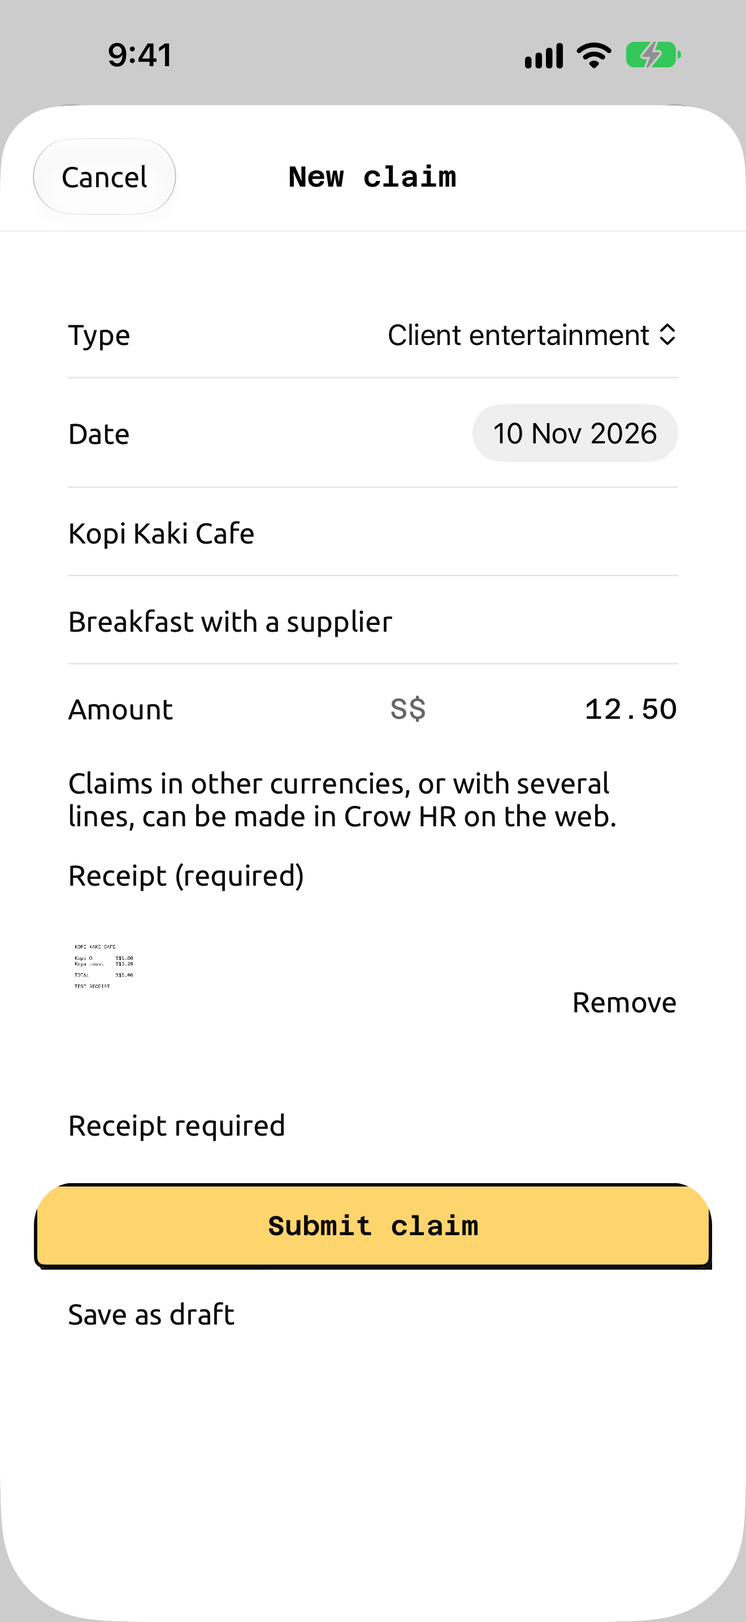
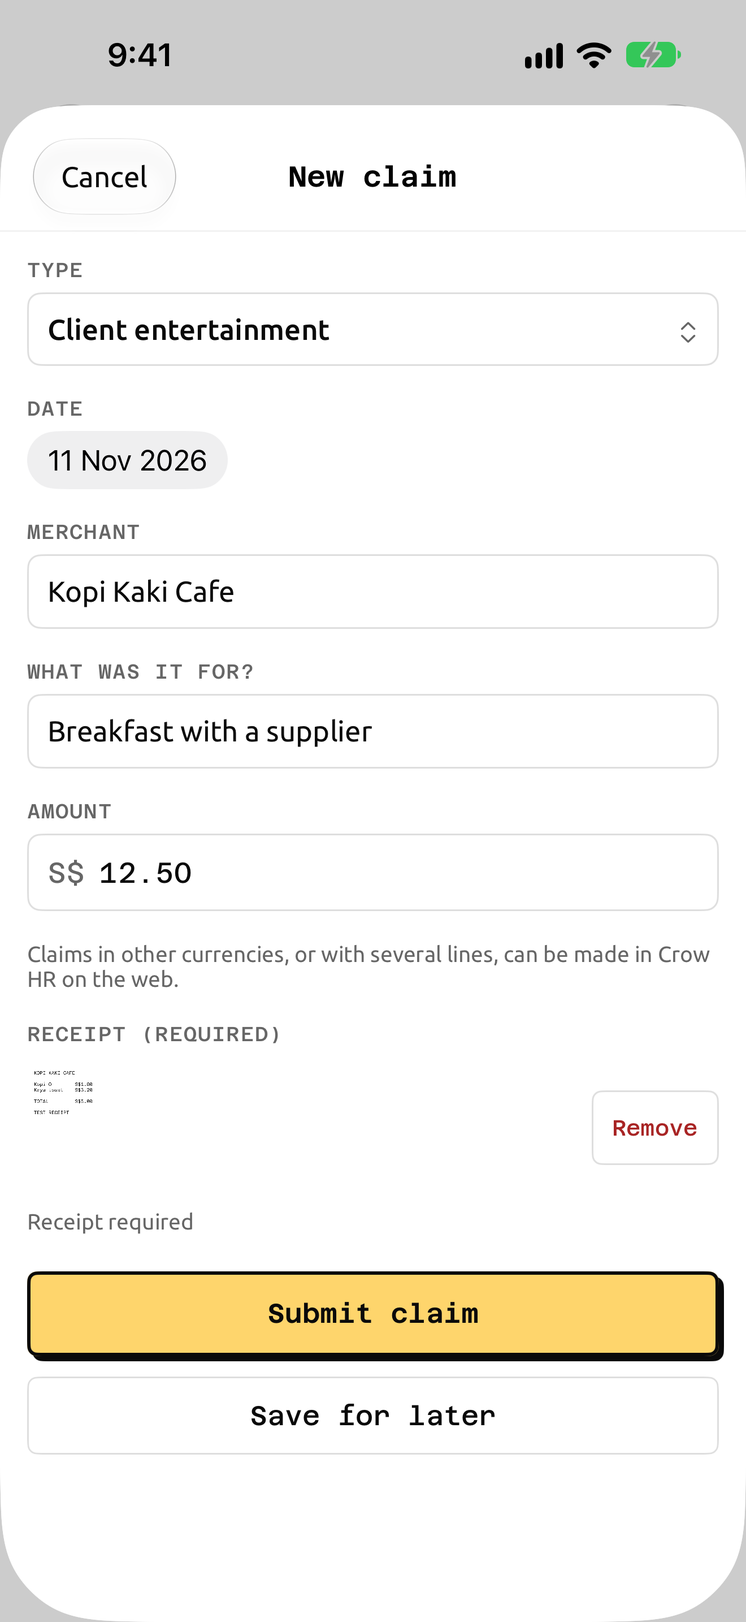
iOS build 5 (iPhone and iPad) and store status docs (#9)
* docs: store status after the Play API run, iPad support, allow-list fix

* chore(ios): recapture the 6.9-inch store screenshots after the accessibility rebuild

* chore(ios): build 5 (1.0.0, iPhone and iPad) uploaded for the App Store

Approval record, upload ledger and IPA receipt for build 5, which replaces
iPhone-only build 4 on version 1.0.0. README documents ios-store-review.py.

---------

diff --git a/openspec/changes/add-mobile-apps/tasks.md b/openspec/changes/add-mobile-apps/tasks.md
@@ -24,11 +24,11 @@ All tasks are milestone M4. Prerequisites: `add-api-platform` complete; attendan
 - [x] 3.4 apps/ios: write `PunchQueueTests` (same cases as 2.4) then implement — every case in `punch-queue-cases.json`, run through the real `APIPunchSender`
 - [x] 3.5 apps/ios: write XCUITest `EssJourneyUITests` against the seeded server over SSH reverse tunnel with network allow-list assertion, then implement the screens — `scripts/ios-ui-test.sh` (e2e seed + `scripts/ios-ui-seed.ts` payslip, tunnel bound to the Mac's loopback). The tests sign in through the real ASWebAuthenticationSession and cover: clock in; an offline punch queued then sent; leave apply; a claim with a stubbed camera receipt; a payslip and its PDF; reject with a required comment, then approve; sign-out. The allow-list is asserted by the in-app transport recorder and by an `lsof` sampler of the app process (every socket went to 127.0.0.1:3190). Notifications are only shown, not exercised as background delivery
 - [x] 3.6 apps/ios: write `BackgroundRefreshTests` (BGAppRefreshTask scheduling, content-free local notification) then implement — shared cursor cases from `background-refresh-cases.json`; the OS-run task itself is not triggered in tests
-- [ ] 3.7 apps/ios: QA with Dynamic Type XXXL, dark mode, VoiceOver labels — verified by simulator screenshots from xcresult (not mock-ups) — STILL OPEN only for the manual VoiceOver and Dynamic Type pass on a real device (Daniel's). Done: Xcode's accessibility audit (descriptions, clipped text, Dynamic Type) is clean on every screen of `QAScreenshotsUITests`: an employee in light XXXL, dark and dark XXXL from connecting to the server through Settings (connect, organisation ID, confirm, sign in, Today, Leave, New leave, Payslips, a payslip, Inbox, More, Claims, New claim, the claim-type list at XXXL, My schedule, My profile, Settings, Font licences; the first tour applies for leave so the others audit a pending request with its Withdraw button) and a manager in light XXXL (approvals, the decision sheet, notifications), 61 screens per run. A tour now visits every screen and fails with all findings; only Dynamic Type on system navigation-bar buttons and on text under the floating tab bar is excused, and logged. Three consecutive runs on 11 Nov 2026 had 0 findings on all 61 audited screens each (18 excused navigation-bar buttons per run). Screenshots were extracted from the xcresults and inspected (`artifacts/ios/qa-*.png`): no clipped text, dark mode readable, and one mid-word break left: "Schedul/e" beside "Next shifts" on Today at XXXL, under the tab bar (`MainTabView.swift`, left for the iPad work; `docs/limitations.md`). How (11 Nov 2026): every `List`/`Form` screen (Leave, New leave, Inbox approvals and notifications, Payslips, More, Claims, New claim, My schedule, My profile, Settings, Font licences, the choice list) is now a `ScrollView` built from `Design/Rows.swift`; the leave swipe actions became visible Withdraw / Cancel leave buttons that ask first, and the saved-connection swipe a Remove button; amounts read through the row's VoiceOver label (a `Text` whose label differs from its text is reported "may be clipped"); fields wrap (`axis: .vertical`, Return moves on); Azeret Mono's f-ligatures are reported as clipped, so "Save as draft" became "Save for later" and "Use a different server" became "Use another server". Real fixes found by the wider audit: the leave sheet's title was cut off ("New leave" now), "Notifications" and "Client entertainment" broke mid-word at XXXL (navigation rows also drop their chevron at accessibility sizes), the claim-type list closed when the text size changed, the brand chip's "HR" became "…", the confirm sheet no longer opens at half height. `A11yAuditLabUITests` (DEBUG-only lab, not in Release builds) keeps the 10 Nov evidence (`List` and `Form` cells flagged, a `ScrollView` clean) and fails if the `ScrollView` built from `Rows.swift` gets a finding. History: on 10 Nov 2026 three runs failed every tour on text in `List`/`Form` rows (details in `docs/limitations.md` history and git); earlier fixes: clipped text and mid-word breaks, side-by-side rows stack at accessibility sizes, tab titles render, the PhotosPicker became a plain button
+- [ ] 3.7 apps/ios: QA with Dynamic Type XXXL, dark mode, VoiceOver labels — verified by simulator screenshots from xcresult (not mock-ups) — STILL OPEN only for the manual VoiceOver and Dynamic Type pass on a real device (Daniel's). Done: Xcode's accessibility audit (descriptions, clipped text, Dynamic Type) is clean on every screen of `QAScreenshotsUITests`: an employee in light XXXL, dark and dark XXXL from connecting to the server through Settings (connect, organisation ID, confirm, sign in, Today, Leave, New leave, Payslips, a payslip, Inbox, More, Claims, New claim, the claim-type list at XXXL, My schedule, My profile, Settings, Font licences; the first tour applies for leave so the others audit a pending request with its Withdraw button) and a manager in light XXXL (approvals, the decision sheet, notifications), 61 screens per run. A tour now visits every screen and fails with all findings; only Dynamic Type on system navigation-bar buttons and on text under the floating tab bar is excused, and logged. Three consecutive runs on 11 Nov 2026 had 0 findings on all 61 audited screens each (18 excused navigation-bar buttons per run). Screenshots were extracted from the xcresults and inspected (`artifacts/ios/qa-*.png`): no clipped text, dark mode readable; the one mid-word break left, "Schedul/e" beside "Next shifts" on Today at XXXL, under the tab bar, was fixed with the iPad work (the header stacks at accessibility sizes). How (11 Nov 2026): every `List`/`Form` screen (Leave, New leave, Inbox approvals and notifications, Payslips, More, Claims, New claim, My schedule, My profile, Settings, Font licences, the choice list) is now a `ScrollView` built from `Design/Rows.swift`; the leave swipe actions became visible Withdraw / Cancel leave buttons that ask first, and the saved-connection swipe a Remove button; amounts read through the row's VoiceOver label (a `Text` whose label differs from its text is reported "may be clipped"); fields wrap (`axis: .vertical`, Return moves on); Azeret Mono's f-ligatures are reported as clipped, so "Save as draft" became "Save for later" and "Use a different server" became "Use another server". Real fixes found by the wider audit: the leave sheet's title was cut off ("New leave" now), "Notifications" and "Client entertainment" broke mid-word at XXXL (navigation rows also drop their chevron at accessibility sizes), the claim-type list closed when the text size changed, the brand chip's "HR" became "…", the confirm sheet no longer opens at half height. `A11yAuditLabUITests` (DEBUG-only lab, not in Release builds) keeps the 10 Nov evidence (`List` and `Form` cells flagged, a `ScrollView` clean) and fails if the `ScrollView` built from `Rows.swift` gets a finding. History: on 10 Nov 2026 three runs failed every tour on text in `List`/`Form` rows (details in `docs/limitations.md` history and git); earlier fixes: clipped text and mid-word breaks, side-by-side rows stack at accessibility sizes, tab titles render, the PhotosPicker became a plain button
 - [x] 3.8 apps/ios: iPad support for 1.0.0 — verified by `AdaptiveLayoutTests` and `SkeletonTests` (device family [1, 2], all four iPad orientations, no `UIRequiresFullScreen`), `IPadLayoutUITests` and the user-flow, QA and store UI tests on the `CrowHR · iPad 13` simulator, with screenshots from xcresult inspected; the iPhone suite unchanged on `CrowHR · Store 6.9`; `ios-verify-ipa.py` requires device family [1, 2] and `ios-release.sh` runs the user-flow UI tests on an iPad simulator too — Done 11 Nov 2026: `TabView` `.sidebarAdaptable` with a sidebar in landscape and the floating tab bar in portrait, both listing More's screens as tabs (the tab set follows the width class); a readable column (`crowScreen()`, safe-area padding, grows with Dynamic Type); payslips list beside the payslip (`NavigationSplitView`, collapsing below 720 pt or at accessibility sizes); Today in two columns from an 820 pt column; phone layouts and More at compact widths (`TabRouting`; compact width simulated with `-uitest-width`); Command-1 to 8 shortcuts; pointer hover on the button styles; form/page-sized sheets for the app's own sheets; the QR preview follows the interface orientation; the lock setting names Face ID or Touch ID. Verified on the 13-inch (portrait, landscape, dark, XXXL, compact width) and the 11-inch (portrait, landscape, compact width): `IPadLayoutUITests` passes; `EssJourneyUITests` passes; the four QA tours are clean (0 findings; the floating tab bar's titles are excused like navigation-bar buttons); `StoreScreenshotsUITests` produced the 13-inch set in `apps/ios/store/screenshots/ipad/` (2064 x 2752); evidence in `artifacts/ios/ipad/`. Not verified: real Split View, Slide Over and Stage Manager resizing (UI tests can't resize a window), the camera and Face ID/Touch ID on an iPad, and no build with iPad support has been uploaded (build 4 is iPhone only)
 
 ## 4. Release (requires Daniel's approval at each external step)
 
 - [x] 4.1 crow-tech-landing: `app/apps/crow-hr/privacy` and `support` pages (Data Not Collected model explained, out of global nav) — verified by site build + lint; publishing only after approval — done on branch `crow-hr-product-page` (commit 2024836): noindex and out of the sitemap until `CROW_HR_LAUNCHED`; eslint clean, production build passes; not pushed
-- [x] 4.2 scripts: release scripts that upload only to TestFlight internal / Play internal draft and refuse production without an approval flag — verified by a dry-run test of the refusal path — `scripts/ios-release.sh` and `scripts/android-release.sh` refuse every release step without Daniel's approval record; dry-run refusal tests: `scripts/ios-release.test.sh` 25 cases, `scripts/android-release.test.sh` 19 cases, all pass. iOS: `internal` (TestFlight internal only; builds 2 and 3 of 0.1.0, 7 and 8 Nov 2026) and, since 10 Nov 2026, `production`: needs a `scope: production` record naming the version and `build: <n>`, exports for App Store distribution (`scripts/ios-verify-ipa.py` checks the internal-only flag is absent, `ITSAppUsesNonExemptEncryption` false and iPhone only), validates and uploads, and never submits for review. Run on 10 Nov 2026 with Daniel's approval ("Submit both", `apps/ios/store/approvals/2026-11-10-app-store-1.0.0.txt`): build 4 (1.0.0) uploaded (delivery `ccbbf84b-c37f-4b31-a657-d756bdf078be`), receipt `apps/ios/store/build4-verification.json`, App Store Connect state VALID, attached to version 1.0.0 when last checked. Android: `internal` builds and verifies a signed AAB (versionCode 1, 7 Nov 2026) and with `--upload` puts it on the internal track as a draft through `scripts/android-play.py` (written, never run: the Play API login needs renewing; versionCode 1 went through the Console UI); `production --approval <record>` builds and verifies the signed AAB and never uploads (`--upload` refused). Run on 10 Nov 2026 with Daniel's approval (`apps/android/store/approvals/2026-11-10-production-1.0.0.txt`): versionCode 2 (1.0.0) verified, SHA-256 540c7e4cdd38f54464ff31e79989962fcaec5e2c2857a8eed843a20dff40ba66, release APK walked through on the emulator (and, after the organisation ID field, connected to the reviewer server up to its sign-in page); the Play upload is done by hand in Play Console
-- [ ] 4.3 Store metadata, privacy label "Data Not Collected", Play Data safety from the dependency audit — verified by review; submission only after approval — STILL OPEN: the App Store privacy answers and Play's Data safety form are filled by hand in the stores' web UIs and are not done yet. Done: Daniel approved the listing and a public 1.0.0 release on 10 Nov 2026 ("Submit both"). App Store Connect (app 6831992308) through `scripts/ios-store-listing.py`: version 1.0.0, the listing text from `apps/ios/store/app-store-metadata.md` (description, keywords, promotional text, subtitle), support, marketing and privacy policy URLs, Business category, copyright "2026 Crow Tech Pte. Ltd.", age rating answers all none/no, free in all 175 territories, six 6.9-inch iPhone screenshots (`apps/ios/store/screenshots/`, real simulator captures against the seeded test server) and build 4. Left by hand in App Store Connect: App Review contact and demo account (reviewer server being set up separately), App Privacy ("Data Not Collected"), content rights, Submit for Review. Play: listing text, icon, feature graphic and four phone screenshots saved as a draft on 7 Nov 2026 (`apps/android/store/listing.json`; the screenshots still match the 1.0.0 UI), Data safety draft in `apps/android/README.md`; left by hand in Play Console: the app content forms (content rating, target audience, Data safety, ads, app access) and the 1.0.0 production release. App icon done (`design/app-icon/`). iOS bundle id `crowtech.crowhr` registered with Apple (`4T7KK78X45`); Play Console app id 4976368088435434771
+- [x] 4.2 scripts: release scripts that upload only to TestFlight internal / Play internal draft and refuse production without an approval flag — verified by a dry-run test of the refusal path — `scripts/ios-release.sh` and `scripts/android-release.sh` refuse every release step without Daniel's approval record; dry-run refusal tests: `scripts/ios-release.test.sh` 25 cases, `scripts/android-release.test.sh` 19 cases, all pass. iOS: `internal` (TestFlight internal only; builds 2 and 3 of 0.1.0, 7 and 8 Nov 2026) and, since 10 Nov 2026, `production`: needs a `scope: production` record naming the version and `build: <n>`, exports for App Store distribution (`scripts/ios-verify-ipa.py` checks the internal-only flag is absent, `ITSAppUsesNonExemptEncryption` false and, since the iPad work, iPhone and iPad), validates and uploads, and never submits for review. Run on 10 Nov 2026 with Daniel's approval ("Submit both", `apps/ios/store/approvals/2026-11-10-app-store-1.0.0.txt`): build 4 (1.0.0) uploaded (delivery `ccbbf84b-c37f-4b31-a657-d756bdf078be`), receipt `apps/ios/store/build4-verification.json`, App Store Connect state VALID; iPhone only, so on 11 Nov 2026 build 5 (iPhone and iPad; approval record `apps/ios/store/approvals/2026-11-11-app-store-1.0.0-build5.txt`) went through the same gate with the user-flow tests on both an iPhone and an iPad simulator (delivery `be48e8a0-bff6-4a3c-a934-b7230cfa9fcb`, receipt `apps/ios/store/build5-verification.json`) and replaces it on version 1.0.0. Android: `internal` builds and verifies a signed AAB (versionCode 1, 7 Nov 2026) and with `--upload` puts it on the internal track as a draft through `scripts/android-play.py` (versionCode 1 went through the Console UI, before the Play API login was renewed); `production --approval <record>` builds and verifies the signed AAB and never uploads (`--upload` refused). Run on 10 Nov 2026 with Daniel's approval (`apps/android/store/approvals/2026-11-10-production-1.0.0.txt`): versionCode 2 (1.0.0) verified, SHA-256 540c7e4cdd38f54464ff31e79989962fcaec5e2c2857a8eed843a20dff40ba66, release APK walked through on the emulator (and, after the organisation ID field, connected to the reviewer server up to its sign-in page); on 11 Nov 2026 `scripts/android-play.py upload-production-draft` put that exact AAB (Play's SHA-256 matches) on the production track as a draft release "2 (1.0.0)" with release notes, not sent for review (`apps/android/store/receipts/production-draft-2.json`)
+- [ ] 4.3 Store metadata, privacy label "Data Not Collected", Play Data safety from the dependency audit — verified by review; submission only after approval — STILL OPEN: the App Store privacy answers ("Data Not Collected", web UI only) and submitting Play's Data safety form (saved as a draft, "No data collected or shared"; Play accepts it only after the target audience form) are not done. Done: Daniel approved the listing and a public 1.0.0 release on 10 Nov 2026 ("Submit both"). App Store Connect (app 6831992308) through `scripts/ios-store-listing.py`: version 1.0.0, the listing text from `apps/ios/store/app-store-metadata.md` (description, keywords, promotional text, subtitle), support, marketing and privacy policy URLs, Business category, copyright "2026 Crow Tech Pte. Ltd.", age rating answers all none/no, free in every territory except mainland China (excluded with `scripts/ios-store-review.py exclude CHN`: it needs an ICP filing number), content rights declared (no third-party content), 6.9-inch iPhone and 13-inch iPad screenshots (`apps/ios/store/screenshots/`, `…/ipad/`, real simulator captures against the seeded test server) and the attached build. Left: App Review contact, demo account and notes (`ios-store-review.py review-details`), App Privacy, the submission (`ios-store-review.py submit`). Play (app 4976368088435434771) through `scripts/android-play.py listing` on 11 Nov 2026: en-GB listing text, icon, feature graphic and four phone screenshots (`apps/android/store/receipts/listing.json`). In Play Console on 11 Nov 2026: privacy policy URL, ads, advertising ID, government apps, financial and health features, content rating (IARC: Everyone, PEGI 3), Data safety draft. Left: app access (reviewer sign-in), target audience, Data safety submission, sending the production release for review. App icon done (`design/app-icon/`). iOS bundle id `crowtech.crowhr` registered with Apple (`4T7KK78X45`)

diff --git a/docs/limitations.md b/docs/limitations.md
@@ -198,7 +198,7 @@ The demo is the real web app and the real core API running in the visitor's brow
 
 Both apps:
 
-- **1.0.0 is approved for public release but not published.** Daniel approved submitting both apps as 1.0.0 on 10 Nov 2026 ("Submit both"). iOS build 4 (1.0.0) is uploaded to App Store Connect for the App Store through `scripts/ios-release.sh production` (App Store Connect reported it VALID, attached to the 1.0.0 version when last checked), and the listing, age rating, price, availability and screenshots are set through the API (`scripts/ios-store-listing.py`). The Android 1.0.0 AAB (versionCode 2) is built, signed and verified by `scripts/android-release.sh production`, but not uploaded: Play uploads go through the Play Console web UI, because the Play API login needs renewing, so `scripts/android-play.py` has still never run. Not done, by hand in the stores' web UIs: App Store App Review details (contact, reviewer server and demo account), the App Privacy answers, content rights and the submission for review; on Play, the 1.0.0 upload, the production release and its review, and the app content forms (content rating, target audience, data safety, ads, app access for reviewers). Earlier test builds: iOS 0.1.0 builds 2 and 3 on internal TestFlight, Android versionCode 1 as an internal-testing draft.
+- **1.0.0 is approved for public release but not published.** Daniel approved submitting both apps as 1.0.0 on 10 Nov 2026 ("Submit both") and on 11 Nov asked for iPad support and the accessibility rebuild first. **App Store Connect** (app 6831992308): the listing, age rating, price, availability (every territory except mainland China, which needs an ICP filing number) and content rights (no third-party content) are set through the API (`scripts/ios-store-listing.py`, `scripts/ios-store-review.py`). Build 5 (1.0.0, iPhone and iPad, uploaded 11 Nov 2026 through `scripts/ios-release.sh production`) replaces iPhone-only build 4 on the version, with 6.9-inch iPhone and 13-inch iPad screenshots. Not done: the App Review contact, demo account and notes (`ios-store-review.py review-details`, waiting for the reviewer credentials from the vault), the App Privacy answers ("Data Not Collected", web UI only) and the submission. **Google Play** (app 4976368088435434771): through the Play API (`scripts/android-play.py`, working again since the login was renewed) the en-GB listing, icon, feature graphic and four phone screenshots are saved, and versionCode 2 (1.0.0) is on the production track as a draft release, not sent for review. In Play Console the privacy policy URL, ads (none), advertising ID (not used), government app (no), financial and health features (none) and the content rating (IARC: Everyone, PEGI 3, "Shares location") are done, and Data safety ("No data collected or shared") is saved as a draft. Not done: app access (the reviewer's sign-in details), target audience (18 and over), submitting Data safety, and sending the production release for review. Both submissions wait for the privacy policy at crow.sg/apps/crow-hr/privacy/ to go live (crow-tech-landing PR #44). Earlier test builds: iOS 0.1.0 builds 2 and 3 on internal TestFlight, Android versionCode 1 as an internal-testing draft.
 - **Remote push is not implemented** by design (design decision 6). The apps refresh in the background and post content-free local notifications instead.
 - **Not in the apps, done on the web:** the leave team calendar for managers, and shift swaps and open-shift pickup.
 
@@ -212,8 +212,8 @@ Android (`apps/android`):
 iOS (`apps/ios`):
 
 - Not in the app, done on the web: leave types that need a child, foreign-currency and multi-line claims, and payslip PDF download outside the share sheet.
-- **iPad: not yet in a build.** 1.0.0 is for iPhone and iPad (`TARGETED_DEVICE_FAMILY` '1,2', all four iPad orientations, multitasking), but uploaded build 4 is iPhone only: the next build replaces it before review, and once 1.0.0 ships with iPad support no later version can drop it. What the simulator can't show: Split View, Slide Over and Stage Manager resizing are not driven by the UI tests (the compact width is simulated with a DEBUG-only `-uitest-width`, which lays the app out in a 375-point strip with the compact width class; sheets still present over the whole window there); the QR scanner and receipt camera (the camera opens inside the form-sized sheet, which Apple allows on iPad, not full screen) and Face ID or Touch ID are untested on an iPad. Not designed for iPad yet: approvals open as a sheet rather than beside the list, and Apply for leave, New claim and the approval decision use the system's default form sheet, which in landscape on a 13-inch iPad leaves New claim's Submit button below the fold (those screens are being rebuilt for task 3.7).
-- **Release gate:** `ios-release.sh` runs the user-flow UI tests on an iPhone and an iPad simulator, not the QA accessibility audit (about 15 minutes; clean, run it by hand before a release, task 3.7 below). It uploads builds; submitting for App Review is done by hand in App Store Connect.
+- **iPad: in build 5, not yet on a real iPad.** 1.0.0 is for iPhone and iPad (`TARGETED_DEVICE_FAMILY` '1,2', all four iPad orientations, multitasking); build 5 is the first with iPad support, and once 1.0.0 ships with it no later version can drop it. What the simulator can't show: Split View, Slide Over and Stage Manager resizing are not driven by the UI tests (the compact width is simulated with a DEBUG-only `-uitest-width`, which lays the app out in a 375-point strip with the compact width class; sheets still present over the whole window there); the QR scanner and receipt camera (the camera opens inside the form-sized sheet, which Apple allows on iPad, not full screen) and Face ID or Touch ID are untested on an iPad. Not designed for iPad yet: approvals open as a sheet rather than beside the list, and Apply for leave, New claim and the approval decision use the system's default form sheet, which on a 13-inch iPad, in either orientation, leaves New claim's Submit button below the fold (scrolling reaches it; the store screenshot shows the form without it).
+- **Release gate:** `ios-release.sh` runs the user-flow UI tests on an iPhone and an iPad simulator, not the QA accessibility audit (about 15 minutes; clean, run it by hand before a release, task 3.7 below). It uploads builds and never submits. Submission is `scripts/ios-store-review.py submit --build <n> --yes`, which refuses unless that build is the attached, VALID one and the App Review contact, demo account, notes and content rights are set; the App Privacy answers have no public API and stay in the web UI.
 - The QR scanner (AVFoundation) and Face ID are not exercised by tests, because the simulator has neither a camera nor biometrics. The camera is stubbed with `-uitest-camera-stub` (DEBUG only).
 - **Accessibility QA (task 3.7) is not signed off: the manual VoiceOver and Dynamic Type pass on a real device (Daniel's) is still needed.** Xcode's accessibility audit in `QAScreenshotsUITests` (element descriptions, clipped text, Dynamic Type) has been clean since 11 Nov 2026. Three consecutive runs that day each audited 61 screens with 0 findings (result bundles `20261111-121953-ui`, `20261111-122824-ui` and `20261111-123646-ui` in `~/Developer/crowhr-ios-a11y/results/` on the Mac). An employee in light XXXL, dark at the default size and dark XXXL goes from connecting to the server through Settings (19, 17 and 18 screens). The claim-type list exists only at accessibility sizes, and the first tour applies for leave and audits Leave with the pending request and its Withdraw button. A manager in light XXXL covers connect, approvals, the decision sheet and notifications (7 screens). A tour visits every screen, then fails with all its findings. Only Dynamic Type on system navigation-bar buttons (Cancel, Apply, Mark all read) and on text under the floating tab bar is excused, and logged. How it got clean:
   - **On an iPad** (iPad Pro 13-inch simulator, portrait, 11 Nov 2026) the four tours are clean too: 17, 16, 17 and 7 screens, 0 findings. Excused and logged there, besides navigation-bar buttons: the titles of iPadOS's floating tab bar (UIKit labels the audit reports without an element, at most one per visible tab) and Settings' UI-test-only list of contacted servers, which an iPad shows on screen. One genuine iPad finding was fixed: the payslip opened beside the list was reported as not supporting Dynamic Type until it was tapped, and is now opened exactly as a tap opens it.
@@ -231,4 +231,4 @@ iOS (`apps/ios`):
     - The confirm-server sheet no longer opens at half height.
   - **Not audited:** the system browser's sign-in page (not the app), the camera and photo picker, error and offline states, the payslip PDF viewer, and claim rows (the seeded employee has no claims during the tours; `EssJourneyUITests` checks a claim row's VoiceOver label). Server addresses have no spaces and wrap by character at XXXL. Screenshots: `artifacts/ios/qa-*.png`.
   - On Today at XXXL, the "Schedule" link beside "Next shifts" broke mid-word ("Schedul/e"), under the floating tab bar where the audit's Dynamic Type check is excused. Fixed with the iPad work: that header (and "On this phone" with "Send now") stacks at accessibility sizes.
-  - **Allow-list check on a shared Mac:** `ios-mac-test.sh` samples the sockets of every process named `CrowHR.app/CrowHR` on the Mac. On 11 Nov 2026 another Crow HR run on a different simulator (iPad, test server on port 3196) was picked up, and the check reported `FAILED`. Filtered to this run's own app processes (PIDs from the XCTest log), every socket went to the test server. Scoping the sampler to `CROWHR_SIM_UDID` would fix it; not done yet.
+  - **Allow-list check on a shared Mac (fixed):** `ios-mac-test.sh` sampled the sockets of every process named `CrowHR.app/CrowHR` on the Mac, so on 11 Nov 2026 another Crow HR run on a different simulator (iPad, test server on port 3196) was picked up and the check reported `FAILED`. Since #7 it samples only the app inside this run's simulator (`/Devices/$CROWHR_SIM_UDID/…/CrowHR.app/CrowHR`); every run after that passed it.

diff --git a/apps/ios/README.md b/apps/ios/README.md
@@ -207,8 +207,15 @@ ssh "$CROWHR_MAC_HOST" 'cd ~/Developer/crowhr-ios && CROWHR_BUILD_NUMBER=<n> CRO
   (`store/build4-verification.json`, not internal-only), and altool reported "VERIFY
   SUCCEEDED" and "UPLOAD SUCCEEDED" (delivery `ccbbf84b-c37f-4b31-a657-d756bdf078be`). App Store
   Connect processed it (VALID), and `ios-store-listing.py attach-build 4` attached it to the 1.0.0
-  version. Nothing has been submitted for review. Build 4 is iPhone only (`UIDeviceFamily` [1]): 1.0.0
-  needs a new build with iPad support, approved and uploaded, attached in its place before review.
+  version. Build 4 is iPhone only (`UIDeviceFamily` [1]), so build 5 replaced it.
+- **Build 5 (1.0.0, iPhone and iPad) was uploaded for the App Store on 11 Nov 2026**
+  (`store/approvals/2026-11-11-app-store-1.0.0-build5.txt`: "Submit both" plus Daniel's request for
+  iPad support and the accessibility rebuild) through `ios-release.sh production`: 82 unit tests
+  and the three user-flow UI tests on both the iPhone and the iPad 13-inch simulator passed, the
+  IPA checks passed (`store/build5-verification.json`: `UIDeviceFamily` [1, 2], not internal-only),
+  and altool reported "VERIFY SUCCEEDED" and "UPLOAD SUCCEEDED" (delivery
+  `be48e8a0-bff6-4a3c-a934-b7230cfa9fcb`). It replaces build 4 on the 1.0.0 version
+  (`ios-store-listing.py attach-build 5`). Nothing has been submitted for review.
 - The release gate runs the user-flow UI tests (`EssJourneyUITests`) on the iPhone simulator
   (`CROWHR_SIM_UDID`) and the iPad one (`CROWHR_IPAD_SIM_UDID`, required), not
   `QAScreenshotsUITests` (about 15 minutes). Run the QA audit by hand before a release, on both;
@@ -235,8 +242,15 @@ none or no) and the price (free, every territory). `screenshots` replaces the 6.
 screenshots (`APP_IPHONE_67`) with `store/screenshots/*.png` and the 13-inch iPad ones
 (`APP_IPAD_PRO_3GEN_129`) with `store/screenshots/ipad/*.png`, after checking every PNG's size
 (iPhone 1320 x 2868 or 1290 x 2796, iPad 2064 x 2752 or 2048 x 2732, either orientation);
-`attach-build` attaches a processed build. App Review contact and demo account, the App Privacy
-answers and the submission stay in the web UI.
+`attach-build` attaches a processed build.
+
+`scripts/ios-store-review.py` (same variables) does the App Review side: `status` (which fields are
+set, never their values), `review-details` (contact, demo account and reviewer notes, read as JSON
+on stdin, e.g. piped from `agent-secrets run`; `--contact-from-team` reuses the team's App Review
+contact), `content-rights`, `exclude CHN` (mainland China needs an ICP filing number) and
+`submit --build <n> --yes`, which refuses unless build n is the attached, VALID build and the review
+details are complete. The App Privacy answers ("Data Not Collected") have no public API: set them
+in the web UI.
 
 Store screenshots come from `StoreScreenshotsUITests` on Crow HR's own 6.9-inch simulator
 (`CrowHR · Store 6.9`, iPhone 17 Pro Max, 1320 x 2868) with a 9:41 demo status bar:

diff --git a/apps/docs/src/content/docs/coming-soon/mobile-apps.md b/apps/docs/src/content/docs/coming-soon/mobile-apps.md
@@ -9,7 +9,7 @@ sidebar:
 
 <span class="crow-pill crow-pill--soon">Coming soon</span>
 
-Native iOS (SwiftUI, `apps/ios`) and Android (Kotlin and Jetpack Compose, `apps/android`) apps are built and tested against a real Crow HR server. Version 1.0.0 of both is being submitted to the App Store and Google Play, but they are **not in either store yet**: store review comes first. Until they are, the web app works on phones, with a bottom tab bar for employees. The iOS app is for iPhone; on an iPad it runs in iPhone mode.
+Native iOS (SwiftUI, `apps/ios`) and Android (Kotlin and Jetpack Compose, `apps/android`) apps are built and tested against a real Crow HR server. Version 1.0.0 of both is being submitted to the App Store and Google Play, but they are **not in either store yet**: store review comes first. Until they are, the web app works on phones, with a bottom tab bar for employees. The iOS app is for iPhone and iPad: on an iPad it shows a sidebar in landscape and can share the screen in Split View, Slide Over and Stage Manager.
 
 The apps cover what employees and managers do most: payslips, leave, clock in and out (also offline), claims with a photo of the receipt, your schedule, approvals and notifications. Everything else stays on the web.
 
